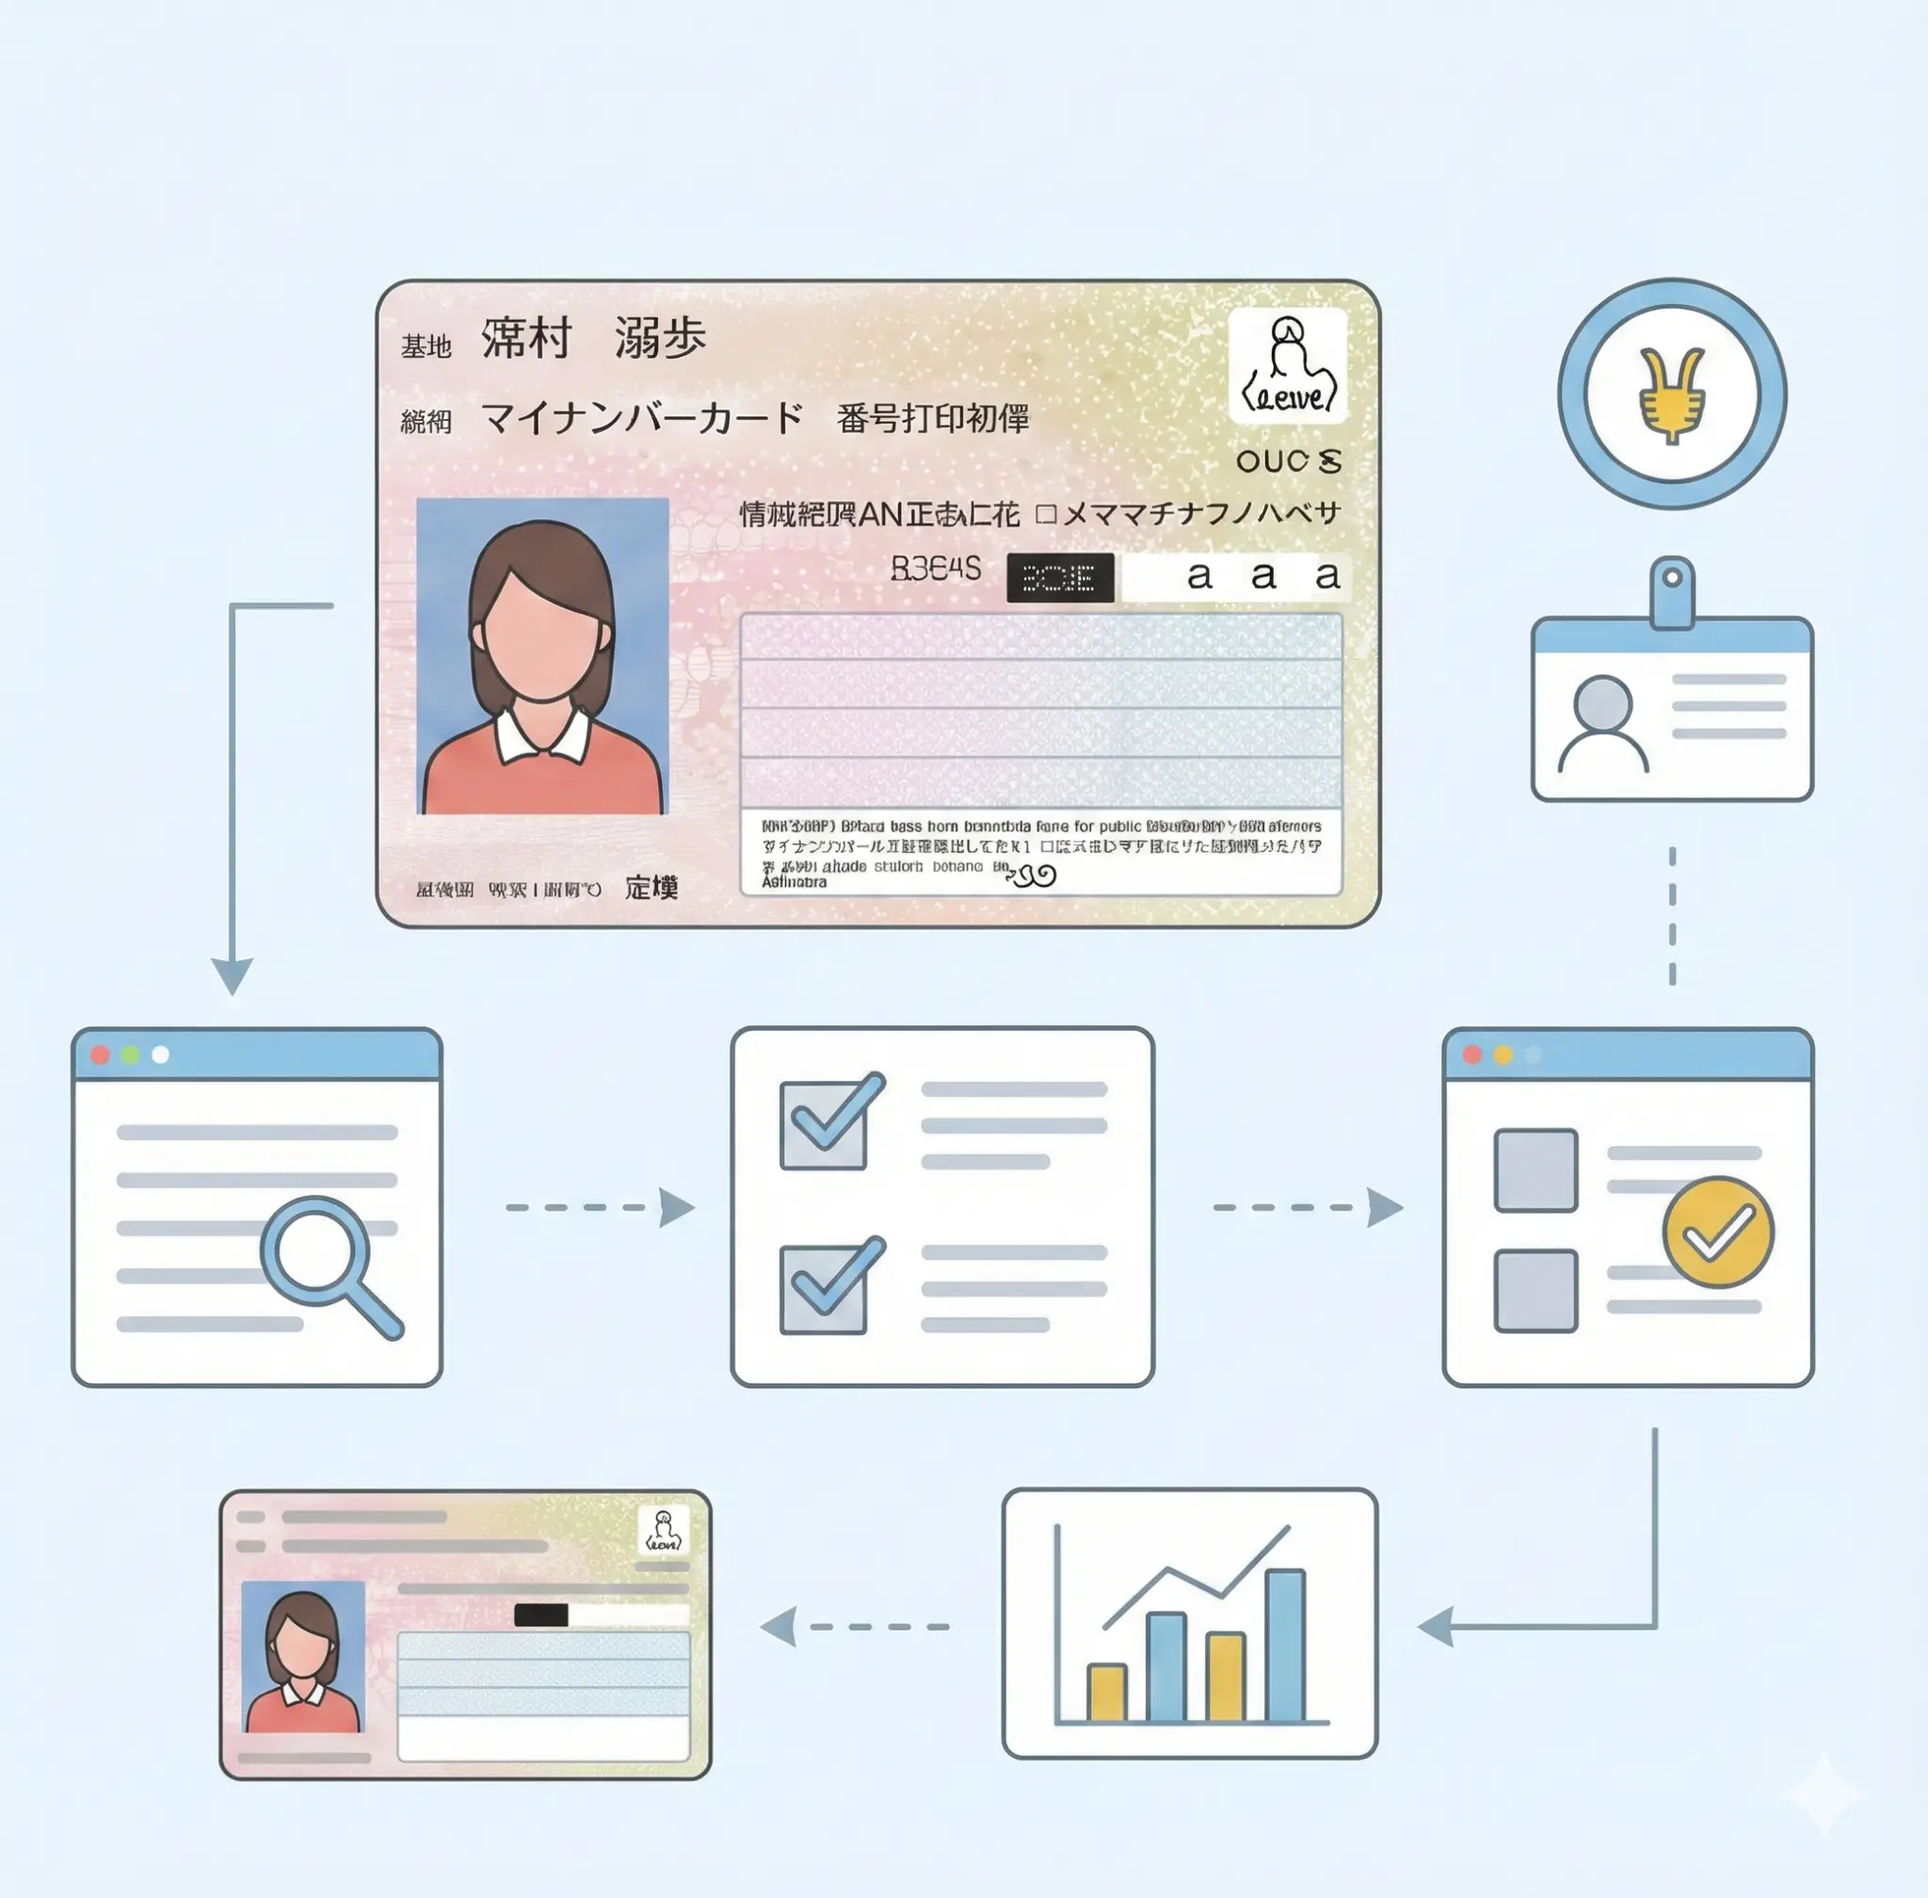
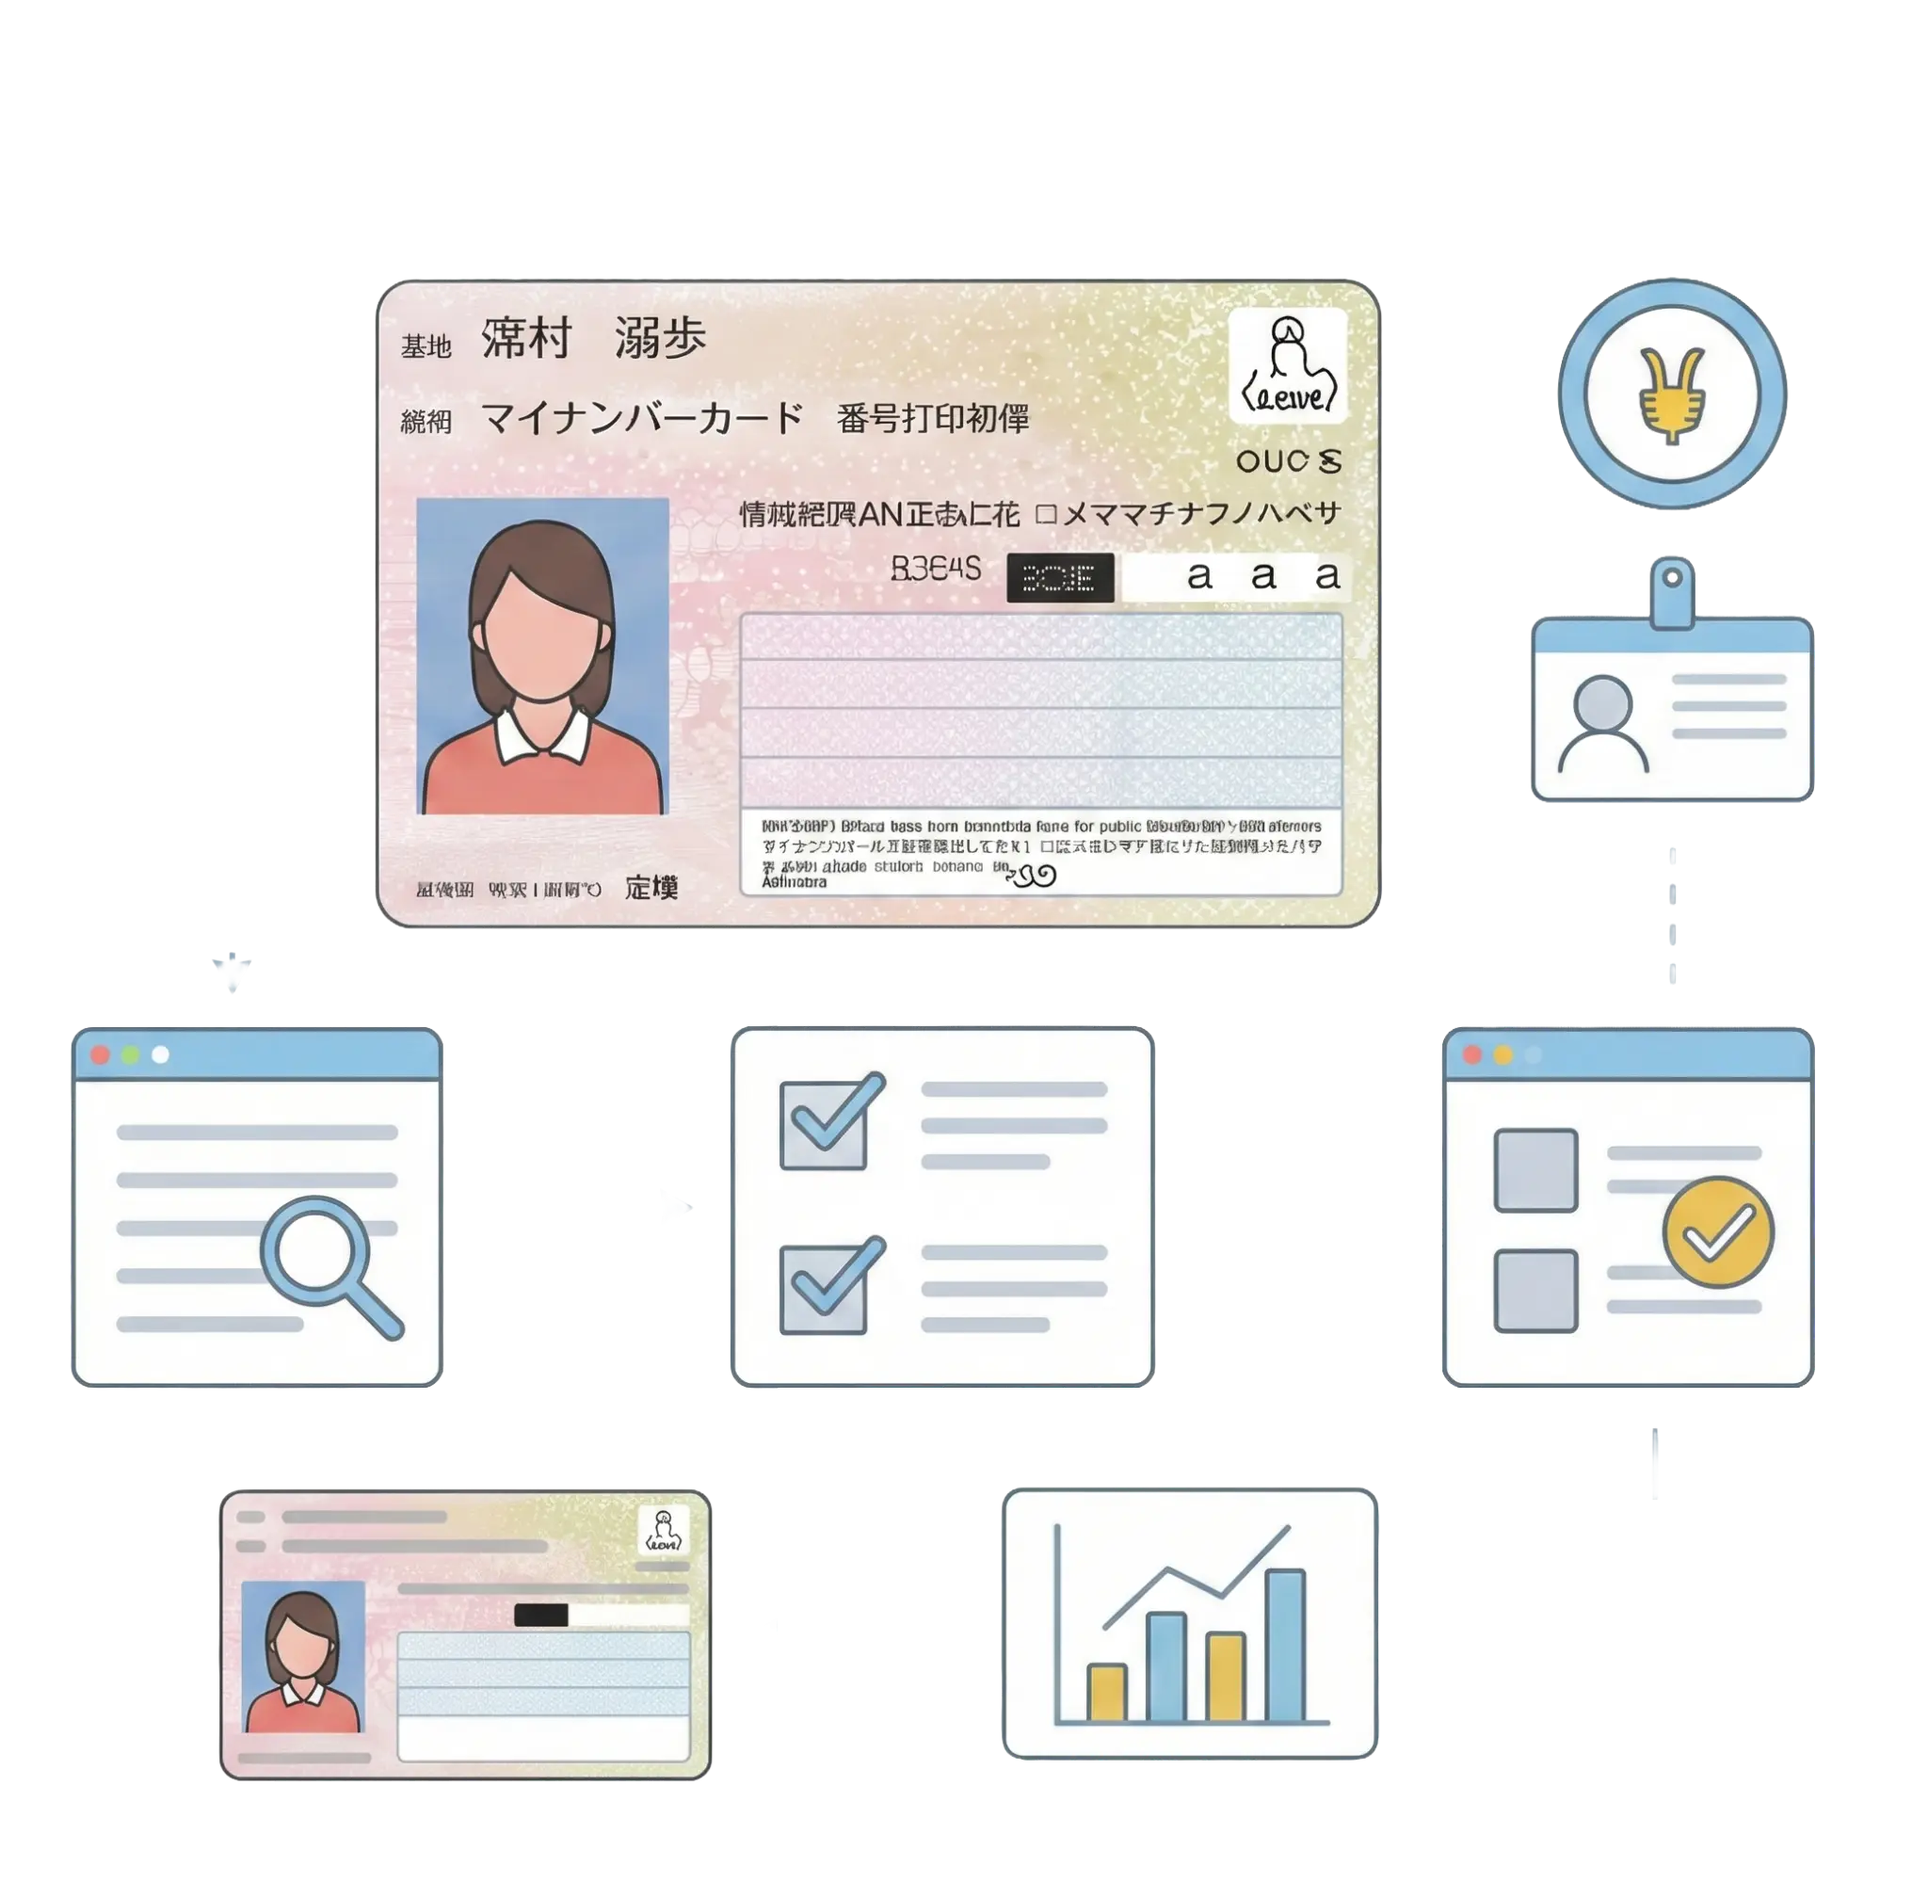
Checkpoint: ユーザーから提供された新しい画像（２.png）をヒーローセクションのメインビジュアルとして実装しました。既存のフロー図画像とバランスよく配置し、サイト全体の完成度を高めました。

diff --git a/client/src/pages/Home.tsx b/client/src/pages/Home.tsx
@@ -35,11 +35,6 @@ export default function Home() {
       <main className="flex-1">
         {/* Hero Section */}
         <section className="relative py-12 md:py-24 overflow-hidden bg-white">
-          {/* Background Image (Wave) */}
-          <div className="absolute top-0 right-0 w-full h-full pointer-events-none z-0">
-             <img src="/hero-bg.png" alt="" className="w-full h-full object-cover object-right-top opacity-80" />
-          </div>
-          
           <div className="container relative z-10">
             <div className="flex flex-col lg:flex-row items-center gap-8 lg:gap-16">
               {/* Left Content */}
@@ -70,9 +65,9 @@ export default function Home() {
               
               {/* Right Image Composition */}
               <div className="flex-1 relative w-full max-w-2xl h-[400px] md:h-[500px] flex items-center justify-center">
-                {/* Person Image */}
+                {/* Main Hero Image (Person/Desk) */}
                 <div className="absolute left-0 bottom-0 w-2/3 z-20 transform translate-y-4">
-                  <img src="/hero-person.png" alt="PC操作をする女性" className="w-full h-auto object-contain drop-shadow-xl" />
+                  <img src="/hero-main.png" alt="PC操作をする女性" className="w-full h-auto object-contain drop-shadow-xl" />
                 </div>
                 
                 {/* Flow/Card Image */}
